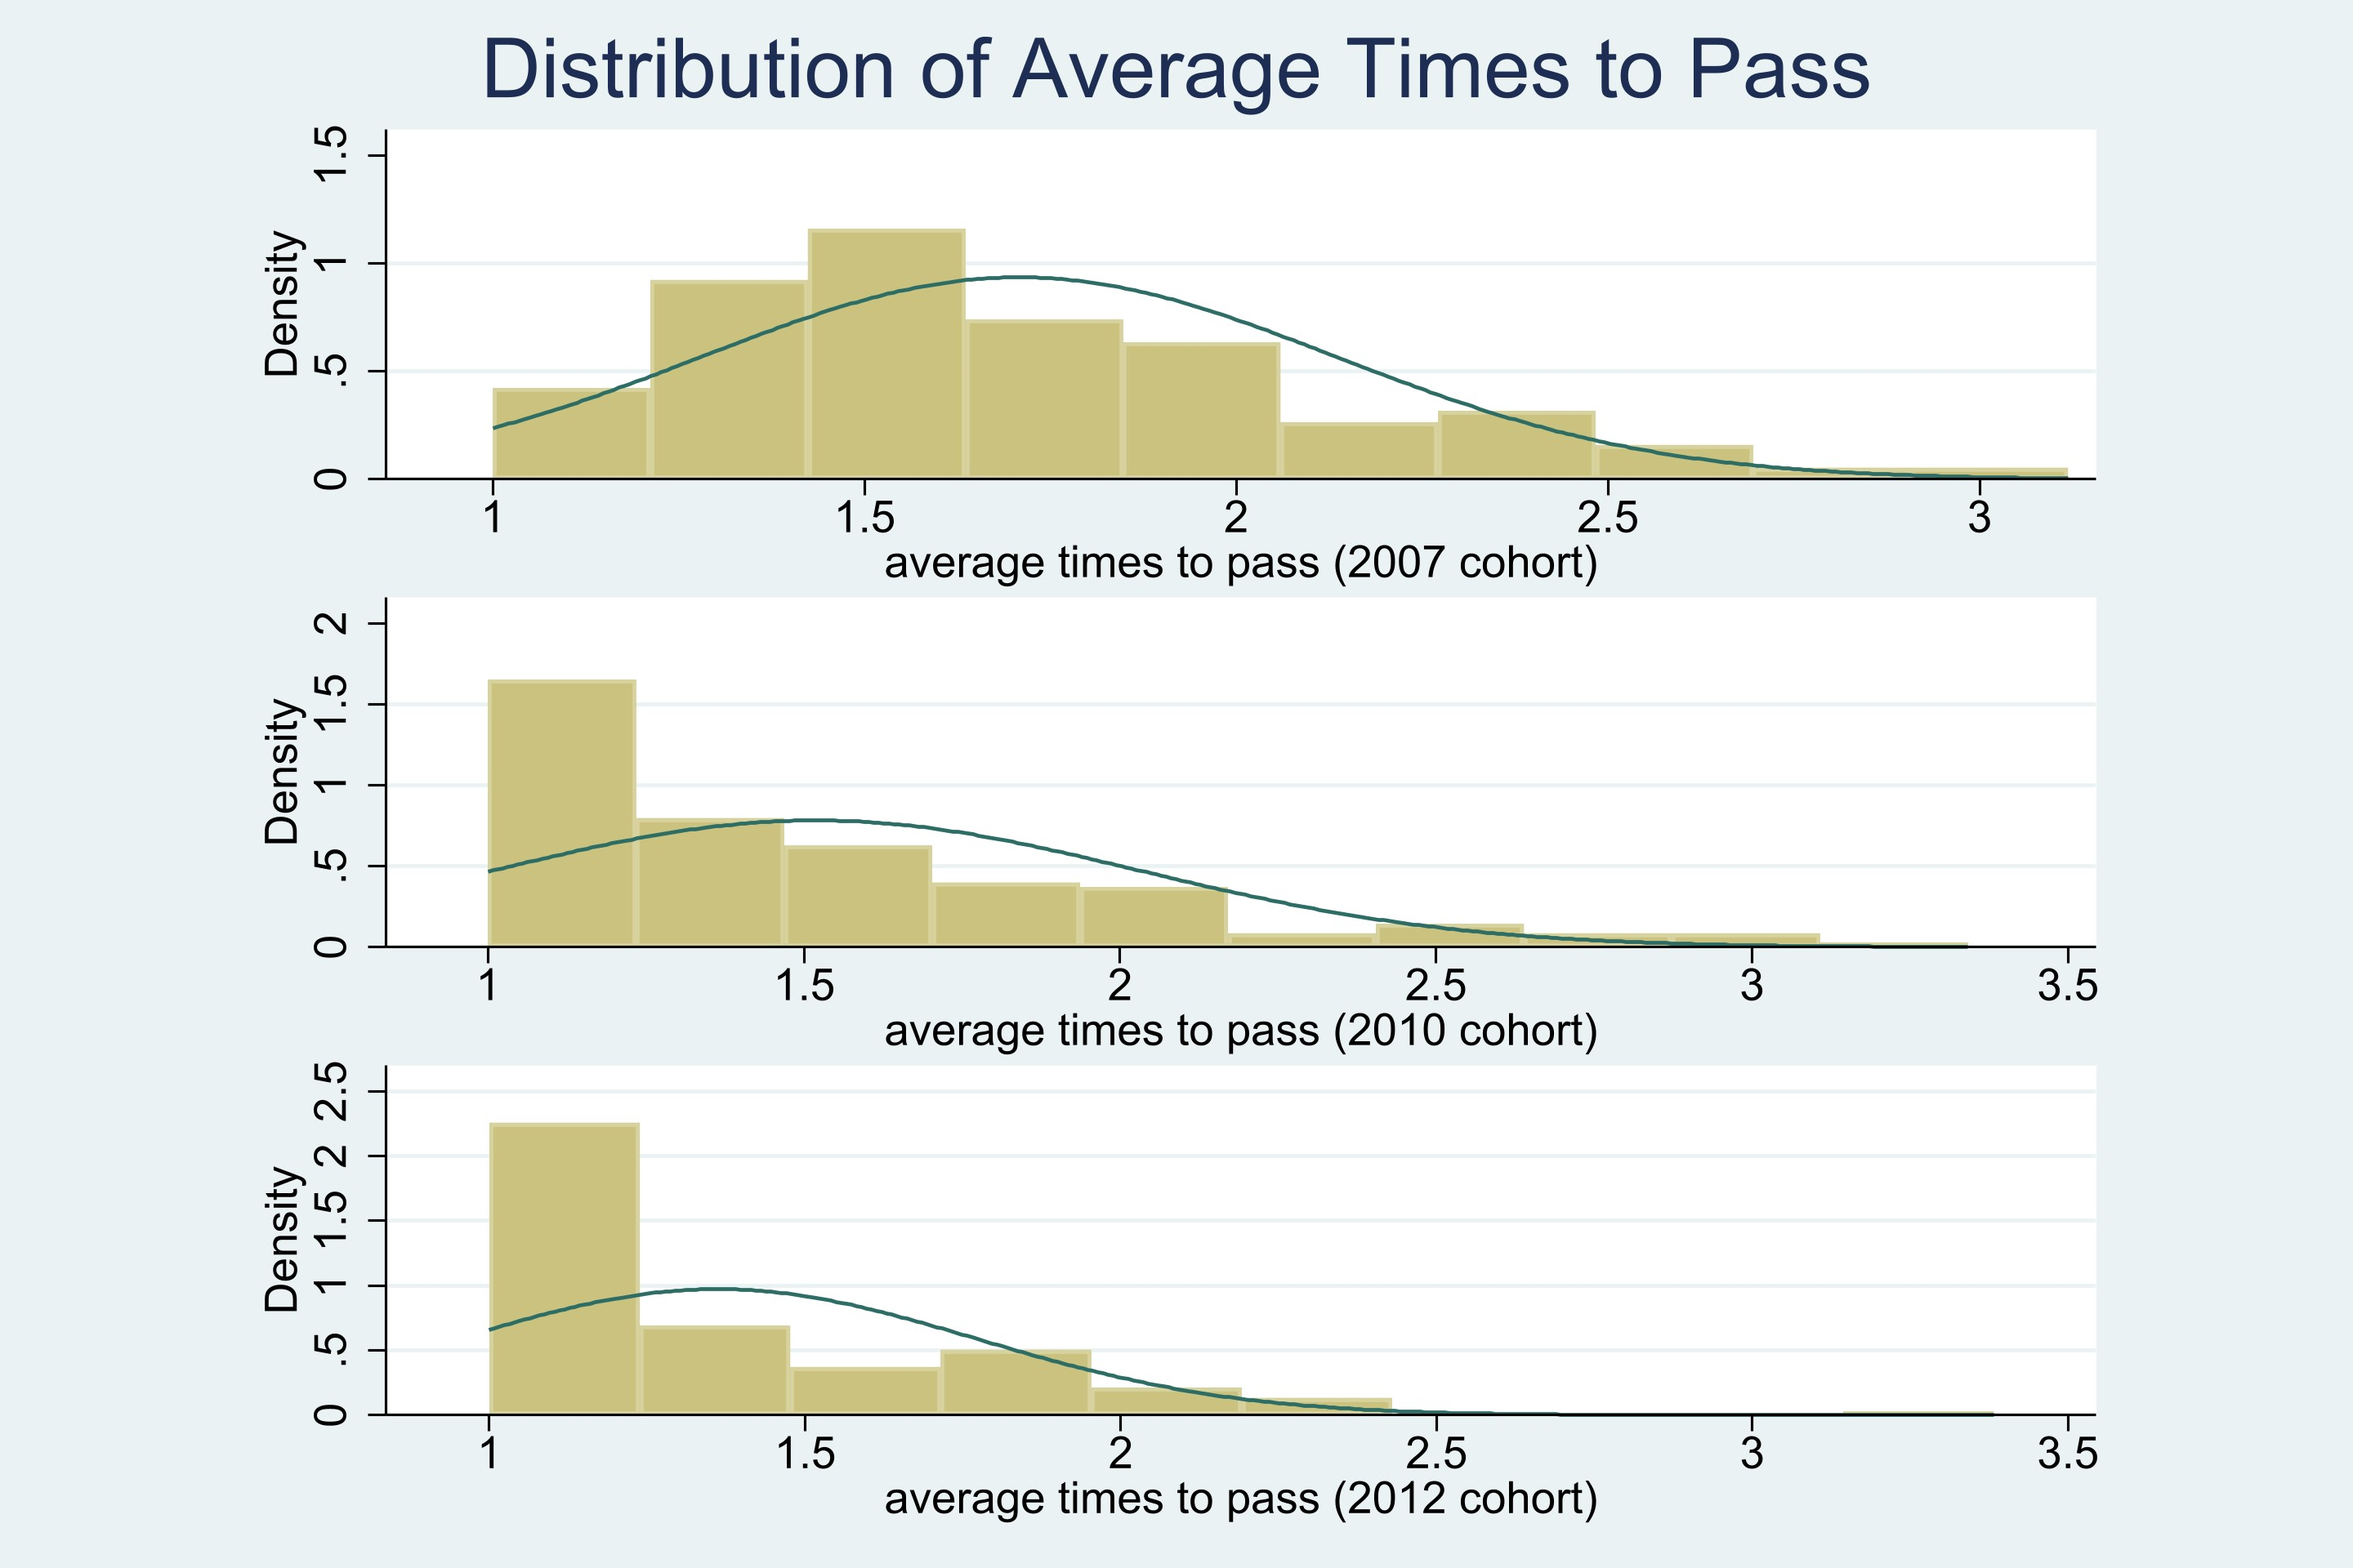
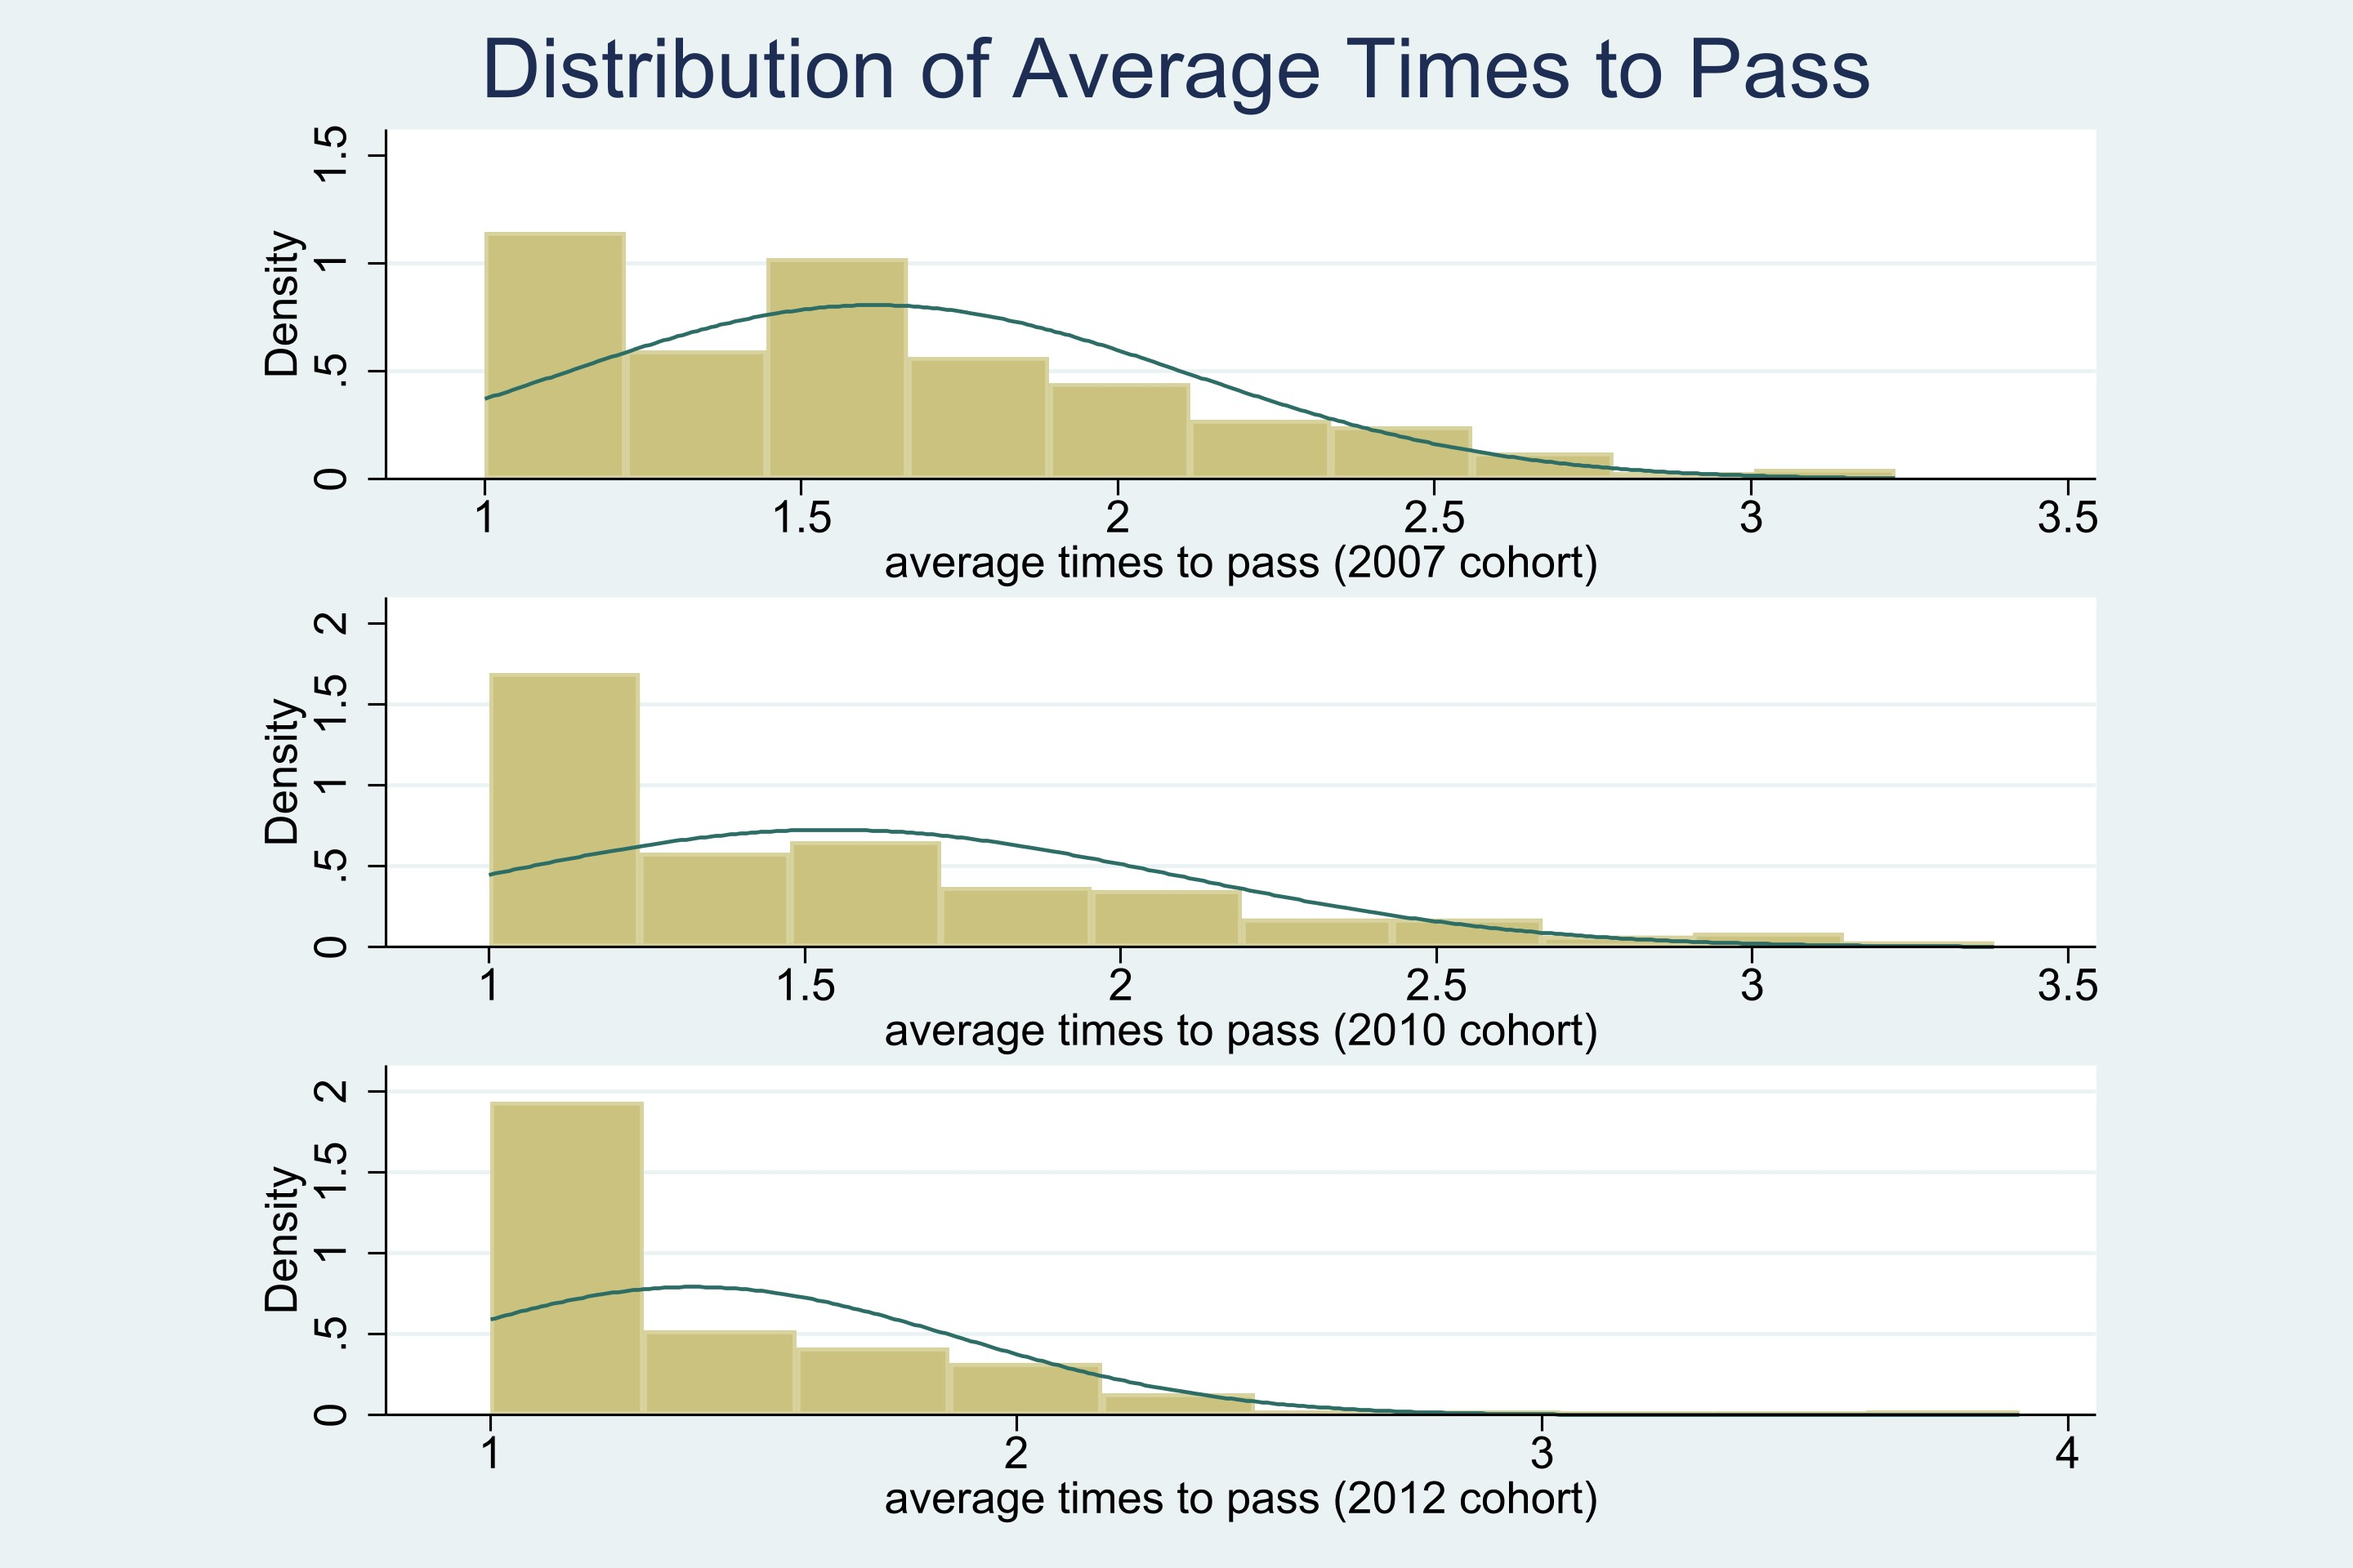
update for 0511 meeting

diff --git a/notes/exploratory.html b/notes/exploratory.html
@@ -50,7 +50,7 @@
 				<section data-transition="convex">
 					<section class="my-slide">
 						<div class="slide-title">
-							<h6>1. Average Time to Pass (conditional on graduation) </h6>
+							<h6>1. Average Time to Pass (including people who did not pass) </h6>
 						</div>
 
 						<div class="line-title-body">
@@ -180,10 +180,10 @@
 							<div class="image-container">
 							  <div class="row" >
 							    <div class="column">
-							      <img src="assets/exploratory_retake/4_N_courses_O.jpg" alt="Number of Courses Enrolled per Student">
+							      <img src="assets/exploratory_retake/4-1_N_courses_O.jpg" alt="Number of Courses Enrolled per Student">
 							    </div>
 							    <div class="column">
-							      <img src="assets/exploratory_retake/4_N_courses_freq_O.jpg" alt=" Number of Courses Enrolled per Student">
+							      <img src="assets/exploratory_retake/4-1_N_courses_freq_O.jpg" alt=" Number of Courses Enrolled per Student">
 							    </div>
 							  </div>
 							</div>	

diff --git a/notes/meeting_2023_05_11.html b/notes/meeting_2023_05_11.html
@@ -43,7 +43,7 @@
 						<p style="text-align:justify;">Useful materials for today:
 						<br><a href="https://lin-mengwei.github.io/notes/Research Plan Draft" target="_blank">1. Research Plan Draft (including strategy)</a>
 						<br><a href="https://lin-mengwei.github.io/notes/possible ideas" target="_blank">2. Possible Ideas</a>
-						<br><a href="https://lin-mengwei.github.io/notes/exploratory" target="_blank">3. Exploratory Results</a>
+						<br><a href="https://lin-mengwei.github.io/notes/exploratory" target="_blank">3. Updated Exploratory Results (Not conditional on Gradution)</a>
 						<br><br>PS: Let's don't forget the photo again!
 					</div>
 				</section>
